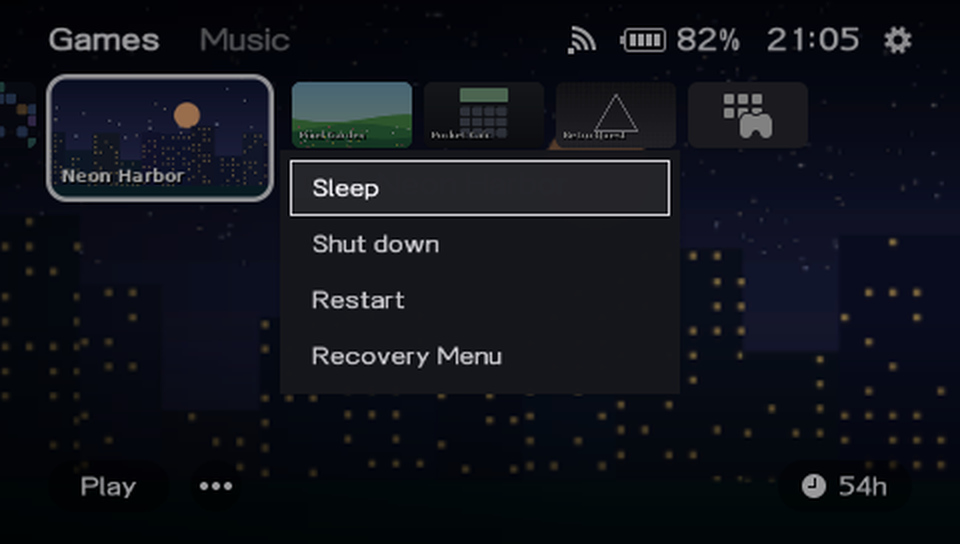
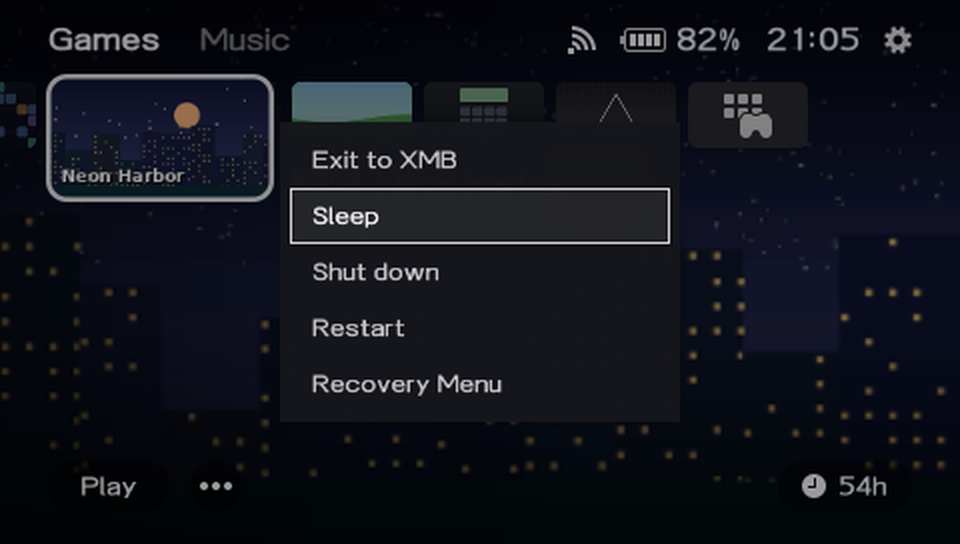
Exit to XMB in the power menu; new category Memory replaces Power and USB
The power menu (SELECT, on every screen) has a fifth choice at the top:
Exit to XMB. It still opens on Sleep, so SELECT then Confirm is Sleep as
before; Up goes to Exit to XMB (POWER_OPEN_ON in power.h).

Settings: the rows Exit to XMB, Sleep, Shut down, Restart and Recovery
Menu are gone, and so is the category Power and USB. The new category
Memory has File Manager first and USB Mode second; both still come back
to the same row of Settings.

From the File Manager and the USB screen, Exit to XMB takes the start
guard away itself (leave_for). The dead popup labels in ui.c's
menu_label() are removed (the popup is drawn by power_popup_draw()).
The README pictures of the power menu and of Settings > About are shot
again. CHANGELOG, DEVELOPER-NOTES, README and INSTALL are updated.

Claude-Session: https://claude.ai/code/session_01Ggf7fWbBwvS8yufh4LMx3Z

Changed region(s): [[0.2812, 0.2188, 0.7188, 0.75], [0.5312, 0.75, 0.5625, 0.7812]]

diff --git a/src/power.h b/src/power.h
@@ -4,10 +4,13 @@
 
 #include "settings.h"
 
-/* SELECT opens the power popup on every screen: Sleep, Shut down, Restart and Recovery menu, in the middle of the screen, the same four as in Settings -> Power and USB.
+/* SELECT opens the power popup on every screen: Exit to XMB, Sleep, Shut down, Restart and Recovery menu, in the middle of the screen (Settings has none of them).
  * Games, Library and Music keep their own state for it (ui.c: they have the options popups too) but draw it with power_popup_draw(); every other screen (Settings,
  * Information, Manage Saved Data, the File Manager, the USB screen) uses all of this, asked by main.c (power_step()), which also decides when it may open: not while the
  * screen has a popup of its own, or a job running. While it is open the screen gets no buttons. */
+
+#define POWER_CHOICES 5 /* Exit to XMB, Sleep, Shut down, Restart, Recovery menu */
+#define POWER_OPEN_ON 1 /* ... and it opens on the second, Sleep (as it always did: SELECT then ✕ is Sleep; Exit to XMB is one step up) */
 
 /* Closed, at once (before a screen is opened: a popup that was still fading out is not carried over to it). */
 void power_reset(void);
@@ -15,11 +18,11 @@ void power_reset(void);
 /* 1 = it is open (it is 0 again as soon as it is closed, while it fades out). */
 int power_is_open(void);
 
-/* Opens it on the first choice, Sleep; a direction that is held when it opens does not move the choice. */
+/* Opens it on Sleep (POWER_OPEN_ON); a direction that is held when it opens does not move the choice. */
 void power_open(const UiInput *in);
 
-/* Every frame (with no buttons when it is closed, to let it fade out). ↑ ↓ choose, ✕ takes the choice, ○ START and SELECT close it. Returns what was chosen: SA_SUSPEND, SA_SHUTDOWN,
- * SA_RESTART or SA_RECOVERY, else SA_NONE. The choice is closed at once and its sound has started. */
+/* Every frame (with no buttons when it is closed, to let it fade out). ↑ ↓ choose, ✕ takes the choice, ○ START and SELECT close it. Returns what was chosen: SA_XMB, SA_SUSPEND,
+ * SA_SHUTDOWN, SA_RESTART or SA_RECOVERY, else SA_NONE. The choice is closed at once and its sound has started. */
 int power_update(const UiInput *in, float dt);
 
 /* What a screen's loop does every frame, before its own update (main.c): SELECT opens the popup unless `can_open` is 0 (the screen has a popup of its own, or a job running);
@@ -29,7 +32,7 @@ int power_frame(UiInput *in, float dt, int can_open);
 /* The popup for the frame that is being drawn: dims the screen and draws the panel (nothing when it is closed and gone). Call it last, before osd_draw(). */
 void power_draw(void);
 
-/* Only the panel with its four choices, `sel` chosen, `a` = how much it is there (0..1, already smoothed). ui.c draws its own popup with this too, so that the look is in one place. */
+/* Only the panel with its five choices, `sel` chosen, `a` = how much it is there (0..1, already smoothed). ui.c draws its own popup with this too, so that the look is in one place. */
 void power_popup_draw(int sel, float a);
 
 #endif

diff --git a/src/ui.c b/src/ui.c
@@ -698,16 +698,17 @@ static void menu_build_view(Ui *ui, const UiInput *in)
 }
 
 /* Stänger menyn. Innehållet står kvar medan den tonas ut. */
-/* SELECT: the power popup, the same four choices in the same order as Settings > Power and USB */
+/* SELECT: the power popup, the same choices in the same order as on the other screens (power.c) */
 static void menu_build_power(Ui *ui, const UiInput *in)
 {
     ui->menu_kind = MENU_POWER;
-    ui->menu_n = 4;
-    ui->menu_item[0] = MI_SLEEP;
-    ui->menu_item[1] = MI_SHUTDOWN;
-    ui->menu_item[2] = MI_RESTART;
-    ui->menu_item[3] = MI_RECOVERY;
-    ui->menu_sel = 0;
+    ui->menu_n = POWER_CHOICES;
+    ui->menu_item[0] = MI_XMB;
+    ui->menu_item[1] = MI_SLEEP;
+    ui->menu_item[2] = MI_SHUTDOWN;
+    ui->menu_item[3] = MI_RESTART;
+    ui->menu_item[4] = MI_RECOVERY;
+    ui->menu_sel = POWER_OPEN_ON;
     ui->menu_stage = 0;
     ui->menu_dir = menu_dir_of(in);
 }
@@ -1181,10 +1182,10 @@ int ui_update(Ui *ui, const UiInput *in, float dt)
                 menu_ask_remove(ui); /* a pinned card is unpinned too: ask first */
             } else {
                 menu_close(ui);
-                if (item >= MI_SLEEP && item <= MI_RECOVERY) { /* main.c does it, like the same four in Settings */
+                if (item >= MI_XMB && item <= MI_RECOVERY) { /* main.c does it, as on the other screens */
                     sound_play(SND_SELECT);
                     sound_wait(400); /* let the sound be heard before anything closes */
-                    return item == MI_SLEEP ? UI_SLEEP : item == MI_SHUTDOWN ? UI_SHUTDOWN : item == MI_RESTART ? UI_RESTART : UI_RECOVERY;
+                    return item == MI_XMB ? UI_XMB : item == MI_SLEEP ? UI_SLEEP : item == MI_SHUTDOWN ? UI_SHUTDOWN : item == MI_RESTART ? UI_RESTART : UI_RECOVERY;
                 }
                 if (item == MI_INFO || item == MI_SAVES) {
                     sound_play(SND_SELECT);
@@ -1848,11 +1849,7 @@ static const char *menu_label(int item)
     case MI_VIEW_LOOSE:
     case MI_VIEW_BOTH:    return view_label(item - MI_VIEW_ALL);
     case MI_CANCEL:       return L(S_F_CANCEL);
-    case MI_SLEEP:        return L(S_SLEEP);
-    case MI_SHUTDOWN:     return L(S_SHUTDOWN);
-    case MI_RESTART:      return L(S_RESTART);
-    case MI_RECOVERY:     return L(S_RECOVERY);
-    }
+    } /* (the names of the power popup are in power.c: power_popup_draw() draws it) */
     return L(S_F_DELETE); /* MI_DELETE, MI_DELETE_YES */
 }
 

diff --git a/src/main.c b/src/main.c
@@ -313,7 +313,7 @@ static void read_pad(UiInput *in, u32 *old)
 
 /* The power popup of the SELECT button on the screens that are not Games, Library and Music (those have it in ui.c): SELECT opens it, unless `can_open` is 0 (the
  * screen has a popup of its own or a job running); while it is open the screen gets no buttons (`in` is cleared, also for the press that closes it). Returns what the player
- * chose (SA_SUSPEND, SA_SHUTDOWN, SA_RESTART, SA_RECOVERY), else SA_NONE. Call it every frame, before the screen's own update. */
+ * chose (SA_XMB, SA_SUSPEND, SA_SHUTDOWN, SA_RESTART, SA_RECOVERY), else SA_NONE. Call it every frame, before the screen's own update. */
 static int power_step(UiInput *in, float dt, int can_open)
 {
     int act = power_frame(in, dt, can_open);
@@ -450,7 +450,7 @@ static void delete_dir_files(const char *dir)
 static void leave_for(int action)
 {
     switch (action) {
-    case SA_XMB:      sys_exit_xmb(); break;
+    case SA_XMB:      sceIoRemove(START_MARK); sys_exit_xmb(); break; /* (the start guard goes, the launcher mode stays paused: sys_exit_xmb) */
     case SA_RESTART:  sys_restart(); break;
     case SA_SHUTDOWN: sys_shutdown(); break;
     case SA_RECOVERY: sys_recovery(); break;
@@ -695,9 +695,9 @@ int main(int argc, char *argv[])
             in_settings = 1;
             continue;
         }
-        if (action == UI_SLEEP || action == UI_SHUTDOWN || action == UI_RESTART || action == UI_RECOVERY) {
-            /* the power popup of the SELECT button: the same four actions as in Settings (only sleep comes back) */
-            run_action(action == UI_SLEEP ? SA_SUSPEND : action == UI_SHUTDOWN ? SA_SHUTDOWN : action == UI_RESTART ? SA_RESTART : SA_RECOVERY,
+        if (action == UI_XMB || action == UI_SLEEP || action == UI_SHUTDOWN || action == UI_RESTART || action == UI_RECOVERY) {
+            /* the power popup of the SELECT button, the same choices as on the other screens (only sleep comes back) */
+            run_action(action == UI_XMB ? SA_XMB : action == UI_SLEEP ? SA_SUSPEND : action == UI_SHUTDOWN ? SA_SHUTDOWN : action == UI_RESTART ? SA_RESTART : SA_RECOVERY,
                        &list, &ui);
             old = s_raw;
             continue;

diff --git a/src/ui.h b/src/ui.h
@@ -8,7 +8,7 @@
 #include "folders.h"
 
 enum { UI_NONE, UI_LAUNCH, UI_SETTINGS, UI_INFO, UI_DELETE, UI_SAVES,
-       UI_SLEEP, UI_SHUTDOWN, UI_RESTART, UI_RECOVERY /* the power popup of the SELECT button */ };
+       UI_XMB, UI_SLEEP, UI_SHUTDOWN, UI_RESTART, UI_RECOVERY /* the power popup of the SELECT button */ };
 /* Games is Home (home.h): the pinned cards, the ones opened last and, at the far right, the Library card. Music has the music.
  * Library is not a tab of the top bar: it is a screen of its own that the Library card opens (✕) and ○ closes. It shows everything,
  * and while it is open the top bar has only the word "Library" in it, in the place of Games (it cannot be selected). */
@@ -24,7 +24,7 @@ enum { MI_SAVES, MI_INFO, MI_DELETE, MI_DELETE_YES, MI_CANCEL,
        MI_PIN, MI_UNPIN,
        MI_SORT_NAME, MI_SORT_RECENT, MI_SORT_PLAYED, /* the sort popup of the Library (SORT_*, in this order) */
        MI_VIEW_ALL, MI_VIEW_FOLDERS, MI_VIEW_LOOSE, MI_VIEW_BOTH, /* the view popup of the Library (LIB_VIEW_*, in this order) */
-       MI_SLEEP, MI_SHUTDOWN, MI_RESTART, MI_RECOVERY /* the power popup: the same four as Settings > Power and USB */ };
+       MI_XMB, MI_SLEEP, MI_SHUTDOWN, MI_RESTART, MI_RECOVERY /* the power popup (power.c): Exit to XMB, Sleep, Shut down, Restart, Recovery menu */ };
 /* How the Library is sorted (Ui.lib_sort; the Sort button, kept in psp5.cfg): by name, by when a game was added (its file time), or by when it was played
  * last, the one played most recently first (a game that has not been played counts from the time it was added) */
 enum { LIB_SORT_NAME, LIB_SORT_RECENT, LIB_SORT_PLAYED, LIB_SORT_COUNT };

diff --git a/src/settings.c b/src/settings.c
@@ -60,7 +60,7 @@ typedef struct {
     int count;
 } Category;
 
-enum { CAT_PSP5, CAT_THEME, CAT_CONTROLS, CAT_DISPLAY, CAT_NETWORK, CAT_PERF, CAT_SYSTEM, CAT_PLUGINS, CAT_POWER, CAT_ABOUT, CAT_COUNT };
+enum { CAT_PSP5, CAT_THEME, CAT_CONTROLS, CAT_DISPLAY, CAT_NETWORK, CAT_PERF, CAT_SYSTEM, CAT_PLUGINS, CAT_MEMORY, CAT_ABOUT, CAT_COUNT };
 
 static Category s_cats[CAT_COUNT];
 static unsigned char s_plugin_on[MAX_PLUGINS];
@@ -576,16 +576,11 @@ static void build(int rebuild)
     if (!c->count)
         info(c, L(S_NO_PLUGINS), "");
 
-    c = &s_cats[CAT_POWER];
-    c->name = L(S_CAT_POWER);
-    action(c, L(S_USB_MODE), SA_USB);
+    /* Exit to XMB, Sleep, Shut down, Restart and Recovery menu are not here: they are the power popup of the SELECT button (power.c), on every screen */
+    c = &s_cats[CAT_MEMORY];
+    c->name = L(S_CAT_MEMORY);
     action(c, L(S_FILES), SA_FILES);
-    action(c, L(S_TO_XMB), SA_XMB);
-    /* the same four, in the same order, as the popup of the SELECT button (ui.c) */
-    action(c, L(S_SLEEP), SA_SUSPEND);
-    action(c, L(S_SHUTDOWN), SA_SHUTDOWN);
-    action(c, L(S_RESTART), SA_RESTART);
-    action(c, L(S_RECOVERY), SA_RECOVERY);
+    action(c, L(S_USB_MODE), SA_USB);
 
     c = &s_cats[CAT_ABOUT];
     c->name = L(S_CAT_ABOUT);

diff --git a/src/lang.c b/src/lang.c
@@ -86,8 +86,8 @@ static const char *const T[S_COUNT][NL] = {
                        "システム", "Systém" },
     [S_CAT_PLUGINS] = { "Plugins", "Plugins", "Plugins", "Plugins", "Plugins", "Plugin", "Plug-ins", "Plugins",
                         "Плагины", "プラグイン", "Pluginy" },
-    [S_CAT_POWER] = { "Power and USB", "Ström och USB", "Strom und USB", "Énergie et USB", "Energía y USB",
-                      "Energia e USB", "Stroom en USB", "Energia e USB", "Питание и USB", "電源とUSB", "Napájení a USB" },
+    [S_CAT_MEMORY] = { "Memory", "Minne", "Speicher", "Mémoire", "Memoria", "Memoria", "Geheugen",
+                       "Memória", "Память", "メモリー", "Paměť" },
     [S_DESC_PSP5] = {
         "ARK settings are saved in SETTINGS.TXT and apply after a restart. Hold SELECT while the PSP starts to skip them and go to the XMB.",
         "ARK-inställningar sparas i SETTINGS.TXT och gäller efter omstart. Håll SELECT när PSP:n startar för att hoppa över dem och komma till XMB.",

diff --git a/src/power.c b/src/power.c
@@ -6,10 +6,10 @@
 #include "sound.h"
 
 #define POWER_W 200.0f
-#define CHOICES 4
+#define CHOICES POWER_CHOICES
 
-static const StrId NAMES[CHOICES] = { S_SLEEP, S_SHUTDOWN, S_RESTART, S_RECOVERY };
-static const int ACTIONS[CHOICES] = { SA_SUSPEND, SA_SHUTDOWN, SA_RESTART, SA_RECOVERY };
+static const StrId NAMES[CHOICES] = { S_TO_XMB, S_SLEEP, S_SHUTDOWN, S_RESTART, S_RECOVERY };
+static const int ACTIONS[CHOICES] = { SA_XMB, SA_SUSPEND, SA_SHUTDOWN, SA_RESTART, SA_RECOVERY };
 
 static int s_open, s_sel, s_dir;
 static float s_anim; /* 0..1: how much of it there is (it fades in and out) */
@@ -43,7 +43,7 @@ int power_is_open(void)
 void power_open(const UiInput *in)
 {
     s_open = 1;
-    s_sel = 0;
+    s_sel = POWER_OPEN_ON;
     s_dir = dir_of(in);
     sound_play(SND_SELECT);
 }

diff --git a/src/lang.h b/src/lang.h
@@ -14,7 +14,7 @@ typedef enum {
     S_NO_GAMES, S_HINT_GAMES, S_HINT_APPS, S_NO_ARK, S_LOADING, S_SAVED, S_LAUNCH_FAILED,
     S_USB_MODE, S_USB_CONNECTED, S_USB_WAITING, S_USB_EJECT, S_USB_EXIT,
     S_BACK, S_YES, S_NO, S_OFF, S_AUTO, S_STANDARD, S_ALL,
-    S_CAT_PERF, S_CAT_SYSTEM, S_CAT_PLUGINS, S_CAT_POWER,
+    S_CAT_PERF, S_CAT_SYSTEM, S_CAT_PLUGINS, S_CAT_MEMORY,
     S_DESC_PSP5, S_DESC_PERF, S_DESC_PLUGINS,
     S_BOOT_PSP5, S_SOUNDS, S_LANGUAGE, S_IS_LAUNCHER, S_CLEAR_CACHE,
     S_CPU_GAME, S_CPU_XMB, S_EXTRA_MEM, S_MS_CACHE, S_ISO_CACHE,

diff --git a/docs/DEVELOPER-NOTES.md b/docs/DEVELOPER-NOTES.md
@@ -16,7 +16,7 @@ into psp5 instead of the XMB.
 
 - **Emergency exit:** hold **SELECT** while the PSP starts – ARK then skips SETTINGS.TXT and you land in the XMB.
   Hold **START** to skip all plugins.
-- **Exit to XMB** (Settings → Power and USB) turns the launcher mode off for that session.
+- **Exit to XMB** (the power menu, SELECT) turns the launcher mode off for that session.
 - **Back to arkMenu:** copy `ARK_01234/VBOOT_ARKMENU.PBP` to `VBOOT.PBP` (a copy is also in `backup/`).
 - An ARK update can overwrite `VBOOT.PBP` – then copy `dist/PSP/GAME/PSP5/EBOOT.PBP` in as `VBOOT.PBP` again.
 
@@ -59,21 +59,28 @@ The changes after 1.2.0 are noted here; the list for users is under *Unreleased*
 - **Information shows when a game was played last** (`info.c`, `lang.c` / `lang.h`; `info.c` now includes `lastplayed.h`, and `lastplayed.o` was already in the `Makefile`). `time_row()` is the old `modified_row()` made general; `last_played_row()` puts `L(S_I_LAST_PLAYED)` ("Last played") right after *Modified* in `iso_rows()` and `pbp_rows()`, and right after *Location* in `umd_rows()` (see *The disc* below). No row when `lastplayed_time(e)` is 0.
   The text is new in all 11 languages (`S_I_LAST_PLAYED`: Senast spelad, Zuletzt gespielt, Dernier lancement, Última vez jugado, Ultimo avvio, Laatst gespeeld, Jogado pela última vez, Последний запуск, 最終プレイ日時, Naposledy hráno); the strings are 209 now.
 - **The power popup on every screen** (new `power.c` / `power.h`; `main.c`, `ui.c`, `settings.c` / `settings.h`, `info.c`, `saves.c` / `saves.h`, `files.c` / `files.h`, `Makefile`; later, on request). SELECT used to open the popup only in Games, Library and Music (`MENU_POWER` in `ui.c`).
-  - *`power.c`*: `power_open(in)` / `power_update(in, dt)` (↑ ↓ and the stick choose, ✕ gives `SA_SUSPEND`, `SA_SHUTDOWN`, `SA_RESTART` or `SA_RECOVERY` and closes at once, ○ START SELECT close; a direction that is held when it opens does not move the choice; the sounds are the ones of `ui.c`),
+  - *`power.c`*: `power_open(in)` / `power_update(in, dt)` (↑ ↓ and the stick choose, ✕ gives `SA_XMB`, `SA_SUSPEND`, `SA_SHUTDOWN`, `SA_RESTART` or `SA_RECOVERY` and closes at once, ○ START SELECT close; a direction that is held when it opens does not move the choice; the sounds are the ones of `ui.c`),
     `power_draw()` (dims the screen and draws the panel, nothing when it is closed and faded), `power_reset()`, and `power_frame(in, dt, can_open)`: what a screen's loop does every frame, before its own update: SELECT opens the popup unless `can_open` is 0; while it is open, and for the press that opens it and the press that closes it, `*in` is cleared, so the screen never sees the button
-    that closed the popup (○ would go back, ✕ would do the row). `power_popup_draw(sel, a)` is the panel itself (200 x 122, in the middle, rising into place like the questions): **`ui.c` draws its own `MENU_POWER` with it too**, so there is one drawing code; its state (`menu_open`, `menu_sel`) stays in `ui.c` because it shares the menu machinery with the options popups.
+    that closed the popup (○ would go back, ✕ would do the row). `power_popup_draw(sel, a)` is the panel itself (200 x 150 with the five choices, in the middle, rising into place like the questions): **`ui.c` draws its own `MENU_POWER` with it too**, so there is one drawing code; its state (`menu_open`, `menu_sel`) stays in `ui.c` because it shares the menu machinery with the options popups.
   - *`main.c`*: `power_step(&in, dt, can_open)` = `power_frame()` and `sound_wait(400)` when something was chosen. Settings (`can_open` = `!settings_modal()`: a choice's popup), Information (always), Manage Saved Data (`!saves_modal()`: a delete running, the question, the Sort popup) and the File Manager (`!files_modal()`: a job running, the options popup or the question) ask it before their update; the USB screen too (always).
     A choice of the three that leave psp5 (`run_action()` of Settings, Information and Manage Saved Data: those screens are closed first with `info_close()` / `saves_close()`; Settings has its own rows for the same actions) works like the same rows in Settings; Sleep (`sys_suspend()`) comes back to the screen. The File Manager and the USB screen run with everything else stopped, so they return the choice (`files_mode()` / `usb_mode()` return an `SA_*`, 0 = none):
     the File Manager does Sleep on the spot, as with the PSP's own switch; USB is stopped first (`sys_usb_stop()`) and then `after_visit(action)` does Sleep or `leave_for(action)` (new, the four ways out that were the end of `run_action()`). `power_reset()` is called before each screen opens (a popup that was still fading out is not carried to the next screen).
     Each screen calls `power_draw()` right before `osd_draw()`. Not changed: the PSP's own Wi-Fi screen (`wifi_dialog`, the system's), the start-up screen and the intro, the delete / copy progress panels (a job is running: `*_modal()`).
-  - *Tests* (private): new group `power` (`power/power_test.c`: closed draws nothing; it opens on Sleep, rises into the middle (200 x 122 at 140, 75), four choices 28 px apart, the frame, the dim; ↑ ↓ and the stick stop at the ends, a held direction runs no further; ✕ gives each of the four actions and closes; ○ START SELECT close; the other buttons do nothing; the sounds; `power_frame()` with can_open 0 and 1, the buttons that are kept from the screen, the press that closes it kept too,
-    fading out, `power_reset()`; the four names in all 11 languages; at rest on whole pixels; and `power/main_check.py`, which reads `main.c` and checks that every screen asks `power_step()` the right way, that a choice is done the right way and that every screen is reset before it opens); `ui/menu_test.c` prints the signature of its own popup and `run_all.sh` requires it to be the same line as `power_test.c`'s (`SIG-POWER`: panel, dim, shadow, colours, frame, text);
+  - *Tests* (private): new group `power` (`power/power_test.c`: closed draws nothing; it opens on Sleep (the second choice), rises into the middle (200 x 150 at 140, 61), five choices 28 px apart, the frame, the dim; ↑ ↓ and the stick stop at the ends, a held direction runs no further; ✕ gives each of the five actions and closes; ○ START SELECT close; the other buttons do nothing; the sounds; `power_frame()` with can_open 0 and 1, the buttons that are kept from the screen, the press that closes it kept too,
+    fading out, `power_reset()`; the five names in all 11 languages; at rest on whole pixels; and `power/main_check.py`, which reads `main.c` and checks that every screen asks `power_step()` the right way, that a choice is done the right way and that every screen is reset before it opens); `ui/menu_test.c` prints the signature of its own popup and `run_all.sh` requires it to be the same line as `power_test.c`'s (`SIG-POWER`: panel, dim, shadow, colours, frame, text);
     `settings/settings_test.c`, `files/popup_test.c` and `saves/saves_test.c` check `settings_modal()`, `files_modal()` and `saves_modal()` (a popup, a question, a running job).
     The Settings, Information, Manage Saved Data and File Manager tests also open the popup (`power_open()`) and draw the screen, and check that the dark panel is on the screen when it is open and not when it is closed or reset (a screen that forgot `power_draw()` would show nothing); `menu_test.c` checks that the card screens' popup rises and fades in.
   - *Mutation checks* (`mutation-batches/mutbatch14a.sh` to `14e.sh`, 70 changes): all caught. In `power.c`: the choice it opens on, a held direction when it opens, the clamps at both ends, the order of the actions and of the names, ✕ not closing it, no sound, each of ○ START SELECT left out and one button too many, the sounds, a held direction running on, no fading in or out, a closed popup choosing, no dim, the width, the rise, the text and frame positions, the opacity of the others, the font size,
     `power_frame()` not clearing the buttons, ignoring `can_open`, leaking the press that opens it, not fading, `power_reset()` leaving it open or half there; in `ui.c`: the wrong choice, no fade, the old branch left in; in `main.c` (through `main_check.py`): every `*_modal()` ignored, the action of Settings, `info_close()` / `saves_close()` left out, the held button not ignored, Sleep in the File Manager, the loop not left, the order in the USB loop, the draw in the USB screen,
     `after_visit()` not used or Sleep not coming back, a wrong way out, `power_reset()` left out before each screen, the sound wait, `app_stop()` before leaving; the four `*_modal()` and the four `power_draw()` calls of the screens. Holes found and closed: the text and the frame one pixel off (only the spacing and the y of the frame were checked: the absolute positions are now), `ui.c` drawing its popup without the fade (a check that it rises and fades in), and a screen that does not draw the popup (the new check on four screens).
     Not changed: the PSP's own Wi-Fi screen and the start-up screen; nothing runs on a PSP here, and the maintainer has not tried this on one.
+- **Exit to XMB in the power popup; the category Memory replaces Power and USB** (`power.c` / `power.h`, `ui.c` / `ui.h`, `main.c`, `settings.c`, `lang.c` / `lang.h`; later, on request).
+  - *The popup* has five choices now, in this order: **Exit to XMB** (`S_TO_XMB`, `SA_XMB`, `MI_XMB`, `UI_XMB`), Sleep, Shut down, Restart, Recovery menu (`POWER_CHOICES` 5 in `power.h`). It **opens on Sleep** (`POWER_OPEN_ON` 1, used by `power_open()` and by `menu_build_power()` of `ui.c`): the choice that SELECT then ✕ has always done is still Sleep, and the one that leaves psp5 is one step up (asked to be "at the top, like in Settings"; the starting choice was not
+    said, so it is the safer one: change `POWER_OPEN_ON` to 0 for the other). `main.c`: `UI_XMB` is run as `SA_XMB` by `run_action()` (which takes the start guard away and keeps the launcher mode paused, as the old Settings row did); from the File Manager and the USB screen `leave_for(SA_XMB)` does it after the screen has stopped, and now removes the start guard itself (`sceIoRemove(START_MARK)`, harmless twice).
+  - *Settings*: the rows Exit to XMB, Sleep, Shut down, Restart and Recovery menu are gone (their `SA_*` values stay: the popup uses them). `CAT_POWER` / `S_CAT_POWER` ("Power and USB" and its ten translations) are gone; `CAT_MEMORY` / `S_CAT_MEMORY` ("Memory": Minne, Speicher, Mémoire, Memoria, Memoria, Geheugen, Memória, Память, メモリー, Paměť) is in the same place, after Plugins and before About, with two rows: **File Manager**, then **USB Mode** (they swapped places).
+    `settings_is_visit()` is unchanged (both are still visits that come back to the same row, now in Memory). The number of strings is still 209 (one went, one came). Not changed: `tools/tests/*.txt` walk to the category by key presses (it is in the same place); their shots are named `05-memory` and `07-memory` now.
+  - *Tests* (private): `settings_test.c` (no row of Settings exits, sleeps, shuts down, restarts or opens the recovery menu, by action and by name; no category is called Power and USB; Memory is the one before About, has File Manager and USB Mode in that order and ✕ gives each; the visit checks use Memory), `caps_test.c` (Memory in 11 languages, and the names of Exit to XMB),
+    `power_test.c` and `menu_test.c` (five choices, opens on Sleep, ↑ reaches Exit to XMB and stops, ✕ on each of the five, 200 x 150 at 61, the signature line), `main_check.py` (`leave_for` removes the start guard for `SA_XMB`). The README pictures of the power menu (the fifth choice) and of Settings → About (the list shows Memory above About) are shot again. 49 mutation runs on the new code (the order, names and actions of the five choices, where the popup opens, the clamps at both ends, the ranges and mappings in `ui.c` and `main.c`, `leave_for()` and `run_action()` for `SA_XMB`, the rows, order, actions and name of Memory, the visits, the new strings in four languages): all caught, after three holes were closed (`main.c` taking `UI_XMB` and mapping it to `SA_XMB`, and `run_action()` taking the start guard away for `SA_XMB`: `main_check.py` checks them now) and one that was dead code (the names of the popup in `menu_label()` of `ui.c` were never reached since the popup is drawn by `power_popup_draw()`: they are gone, and `menu_test.c` checks the five names it draws). One run changes nothing (a label case added back for `MI_XMB` that nothing can reach).
 - **The disc has a last played time too** (`lastplayed.c` / `lastplayed.h`, `info.c`; later, on request). *Time played* of the disc was there from the start and needs nothing: the helper plugin names a game on a disc (`disc0:/...`) by the `DISC_ID` of `disc0:/PSP_GAME/PARAM.SFO` (`awake_key_from_path()` kind 2, tried once a second for 10 s while the disc spins up), keeps its seconds in `played/<disc id>.txt`,
   `playtime_load()` adds them to `playtime.txt` under that name and `playtime_seconds()` looks the disc up by `entry_cover_key()` (the disc id when it has one), so the disc card shows its clock like any other game (on a PC, `units/playtime_test.c` checks "the disc: by its id" and `plugin/psp5time_test.c` a game on `disc0:` named by its `DISC_ID`; the maintainer has not reported it on a PSP). What was missing was the last time: `lastplayed_time()` and `lastplayed_note_launch()` refused the disc.
   Now `game_key()` (new, `lastplayed.c`) gives every game its key and the disc its disc id, and a disc **without** a disc ID none (`entry_cover_key()` would call it "SYSDIR", the folder of its `EBOOT.BIN`, like every disc; the plugin does not count such a disc either). So `lastplayed_note_launch()` keeps the time when psp5 starts the disc, `merge_played()` already noted the time of the plugin's file for a disc started from the XMB
@@ -81,7 +88,7 @@ The changes after 1.2.0 are noted here; the list for users is under *Unreleased*
   Home, `home_recent_rank()` and the Library do not change (the disc is always the first card, `playtime_plays()` names the disc but Home only takes games that are in the list). Tests: `units/lastplayed_test.c` (the disc by its id, from the plugin's file and from psp5, shared with an ISO, a disc with no id kept out, another disc's own time), `gameinfo/info_test.c` (the row after Location, none for another disc and for a disc with no id).
   *Mutation checks* (`mutbatch13.sh`, 9 changes): six caught (the disc refused again when reading, no check of the id, the old refusal when starting a disc, a check for another type, the row left out of `umd_rows()`, the row before *Location*); three that change nothing: forgetting to look at the answer of `game_key()` when reading, when starting a disc, and leaving out `key[0] = 0` (a disc with no id then has an empty name, which is never in the table nor noted).
   A first version had no `key[0] = 0`: the two mutations that ignored the answer left the name unset and only passed by luck (the stack was zero), so `game_key()` sets it now.
-- **Closing the File Manager or USB Mode comes back to Settings -> Power and USB** (`main.c`, `settings.c` / `settings.h`). `settings_is_visit(action)` is 1 for `SA_WIFI`, `SA_FILES` and `SA_USB`; after `run_action()` and `app_start()` the main loop stays in Settings (`in_settings` stays 1, the category and row are as they were, `old = s_raw` keeps the Back press from closing Settings)
+- **Closing the File Manager or USB Mode comes back to Settings -> Memory** (`main.c`, `settings.c` / `settings.h`). `settings_is_visit(action)` is 1 for `SA_WIFI`, `SA_FILES` and `SA_USB`; after `run_action()` and `app_start()` the main loop stays in Settings (`in_settings` stays 1, the category and row are as they were, `old = s_raw` keeps the Back press from closing Settings)
   for a visit, and goes to the main screen after every other action as before. (USB Mode was added a little later, on request: it ended on the main screen first. `usb_mode()` returns 1 like the others, so the list is scanned again, as the files may have changed.)
 - **Names** (`lang.c`): `S_SHUTDOWN` is "Shut down" in English (the other ten were already in the form of a verb phrase; `S_RECOVERY` and the others keep their capitals); `S_THEME_ART` is "Show Game art" (it was "Game art in the background") with the new texts in the other ten languages: Visa spelbilder, Spielbilder anzeigen, Afficher les images des jeux,
   Mostrar imágenes de juegos, Mostra le immagini dei giochi, Gamebeelden tonen, Mostrar imagens dos jogos, Показывать обложки игр, ゲーム画像を表示, Zobrazit obrázky her. `README.md`, `INSTALL.md` and the changelog say "Shut down" and "Show Game art".
@@ -858,7 +865,7 @@ Everything that changed compared with the original's v1.5.3 – see `CHANGELOG.m
   and *Move to Games/Apps*. ✕ chooses, ○ or □ closes, so nothing is moved by mistake. Saved in `<data>/moved.txt`, one line
   per card with `entry_cover_key` (the folder name for an EBOOT, the game ID for an ISO). The UMD has no menu. The hint
   "□ Options" is shown faintly next to the Start button.
-- **File manager** (`src/files.c`, Settings → Power and USB): runs like the USB mode, with the rest of psp5 closed
+- **File manager** (`src/files.c`, Settings → Memory): runs like the USB mode, with the rest of psp5 closed
   (`files_mode` in `main.c`), and the game list is read again afterwards. ms0: and, on the PSP Go, also ef0: (drive list at
   the top), never flash0. Folders first, sorted by name; □ marks, △ (or ✕ on a file) opens the menu: Paste here, Copy, Move,
   Rename, Delete, New folder. Copy/move/delete run in their own thread (`worker`) with progress and ○ to cancel; a cancelled
@@ -1002,8 +1009,7 @@ Laid out like a console's settings pages, and reads/writes the same files as ark
 - **Performance:** CPU in games / XMB, extra memory, memory stick cache, ISO cache
 - **System:** USB charging, WPA2, logos, hide pictures/MAC/DLC, lights, UMD, analog stick, regions and more
 - **Plugins:** switch rows in `ARK_01234/PLUGINS.TXT` and `SEPLUGINS/PLUGINS.TXT` on/off
-- **Power and USB:** USB mode, file manager, XMB, sleep, shut down, restart, recovery menu (the same four as in the SELECT
-  popup; no confirmation)
+- **Memory:** file manager, USB mode (the power rows that were in *Power and USB* are in the SELECT popup now; no confirmation)
 
 The CFW settings (`SETTINGS.TXT`) are written in exactly the same format as arkMenu and take effect after a restart.
 Unknown lines and comments are kept.

diff --git a/README.md b/README.md
@@ -34,7 +34,7 @@ wherever it can, but it doesn't copy the console in everything.
   </tr>
   <tr>
     <td width="50%"><img src="docs/screenshots/theme.png" alt="Classic theme"><br><sub><b>Themes</b> – the classic looks of PS1 to PS4 too (here PS3, with <i>Show Game art</i> turned off)</sub></td>
-    <td width="50%"><img src="docs/screenshots/power-menu.png" alt="Power menu"><br><sub><b>Power menu</b> (SELECT) – sleep, shut down, restart, recovery menu</sub></td>
+    <td width="50%"><img src="docs/screenshots/power-menu.png" alt="Power menu"><br><sub><b>Power menu</b> (SELECT) – exit to the XMB, sleep, shut down, restart, recovery menu</sub></td>
   </tr>
 </table>
 
@@ -62,8 +62,7 @@ wherever it can, but it doesn't copy the console in everything.
   - *Controls* – the PSP's own confirm button, and which buttons confirm, go back, open the options and the power menu.
   - *Display and Sound* – the PSP's own brightness, backlight timer (psp5 remembers it), volume, equalizer and AVLS.
   - *Network* – the PSP's own Wi-Fi screen. *About* – nickname, model, system software, MAC address, storage, battery.
-  - *Performance* (CPU speed, extra memory, caches), *System*, *Plugins* and *Power and USB* (USB Mode, File Manager, XMB,
-    Sleep, Shut down, Restart, Recovery Menu).
+  - *Performance* (CPU speed, extra memory, caches), *System*, *Plugins* and *Memory* (File Manager, USB Mode).
 
   A setting with several values opens a popup when you press Confirm on it.
 - **Themes.** The colours of the console covers, each with the console's scene behind your games (a beam of light, golden
@@ -71,12 +70,12 @@ wherever it can, but it doesn't copy the console in everything.
   off, so the theme is always visible.
 - **Startup.** A short intro like a console's, with a health notice, soft circles and golden dust in your theme's colours.
   It plays when the PSP starts and wakes up, not when you come back from a game. Any button skips it, and you can turn it off.
-- **Power menu** (SELECT, on every screen: Games, Library, Music, Settings, Information, Manage Saved Data, the File Manager and the USB screen). Sleep, Shut down, Restart, Recovery Menu – Confirm does it at once.
+- **Power menu** (SELECT, on every screen: Games, Library, Music, Settings, Information, Manage Saved Data, the File Manager and the USB screen). Exit to XMB, Sleep, Shut down, Restart, Recovery Menu – Confirm does it at once.
 - **Volume, battery and Wi-Fi.** Pressing the volume buttons slides a volume bar in at the top. The battery has four bars that are lit
   from the right (one for each quarter); while the PSP charges, a bolt is shown left of the battery and the bars above the level come on
   one after the other. You can also show the battery percentage (*Settings → psp5*). A Wi-Fi sign is shown while the PSP's Wi-Fi switch is
   on. At the very end of the top bar is the cog wheel.
-- **File Manager** (*Settings → Power and USB*). Browse the Memory Stick (and the internal storage on a PSP Go) and copy,
+- **File Manager** (*Settings → Memory*). Browse the Memory Stick (and the internal storage on a PSP Go) and copy,
   move, rename, delete or make folders.
 - **Sounds and languages.** Menu sounds (you can turn them off). 11 languages: psp5 follows the PSP's language; Swedish and
   Czech are picked under *Settings → psp5 → Language*.

diff --git a/INSTALL.md b/INSTALL.md
@@ -47,7 +47,7 @@ Then *Custom Launcher* in the XMB opens psp5, and your PSP can start straight in
 3. Copy `VBOOT.PBP` from the zip's `ARK_LAUNCHER` folder into `ARK_01234`.
 4. In psp5, open the settings (↑ to the top bar, → to the cog wheel, then Confirm) → *psp5* → turn on *Boot into psp5*, then restart the PSP.
 
-To get to the XMB from there: settings → *Power and USB* → *Exit to XMB*.
+To get to the XMB from there: press SELECT (the power menu, on every screen) and choose *Exit to XMB*.
 
 ## Time played
 
@@ -82,7 +82,7 @@ Every screen uses the same few buttons for the same things:
 | ✕ | **Confirm**: start the game, open, choose, switch on or off (in Music: play / pause) |
 | ○ | **Back**: one step back, close a popup or a screen (it closes the Library) |
 | START | **Options**: of the selected game, card or file · on the Library card: pin / unpin · START again closes the options |
-| SELECT | **Power menu** on every screen: Sleep, Shut down, Restart, Recovery Menu (Confirm does it at once, Back or SELECT closes). It does not open while a popup is open or a copy, move or delete is running. |
+| SELECT | **Power menu** on every screen: Exit to XMB, Sleep, Shut down, Restart, Recovery Menu (Confirm does it at once, Back or SELECT closes). It does not open while a popup is open or a copy, move or delete is running. |
 | L / R | **Switch tabs**: Games and Music (not in the Library: ○ closes it) · in a long list a page up / down |
 | □ △ | Extras on a few screens only: mark / select all in a list (*Manage Saved Data*, the File Manager), □ pauses the music |
 | HOME | Back to the XMB (not as custom launcher)|
@@ -102,7 +102,7 @@ Where to go from there:
 
 ## File Manager
 
-*Settings → Power and USB → File Manager* lets you manage files right on the PSP. Confirm opens a folder, □ marks
+*Settings → Memory → File Manager* lets you manage files right on the PSP. Confirm opens a folder, □ marks
 files, Options (START) shows what you can do (copy, move, paste, rename, delete, new folder) and Back goes back (the first Back
 clears the marks, and at the top it cancels a waiting copy or move before it leaves).
 
@@ -117,7 +117,7 @@ It needs Python 3 with two packages: `py -m pip install --user pillow lz4` (on W
    PNG, JPG, WEBP and BMP work. The ID of a game in `ISO` is the one on its disc (as in its `PARAM.SFO`); for homebrew, PSN and PS1 games
    in `PSP/GAME` it is the **name of its folder**. The card shows the middle of your picture, cut to about 16:9 (the card is 144 × 80),
    and the background is 320 × 182, so pictures of that shape fit best.
-2. **Connect the PSP** (*Settings → Power and USB → USB Mode*, or the Memory Stick in your computer). It shows up as a drive, for example `E:`.
+2. **Connect the PSP** (*Settings → Memory → USB Mode*, or the Memory Stick in your computer). It shows up as a drive, for example `E:`.
 3. **Run the tool** with that drive: `py tools\covers.py E:\` (on Linux or macOS: `python3 tools/covers.py /path/to/the/stick`). It lists every game with its ID
    and what it wrote, and puts the finished pictures in `PSP5/covers` on the Memory Stick.
 4. **Start psp5 again.** A cover in `PSP5/covers` always wins over the game's own picture and over the image cache, and *Clear image cache* never removes it.

diff --git a/CHANGELOG.md b/CHANGELOG.md
@@ -16,8 +16,10 @@ Newest first. Changes that are not in a release yet are under *Unreleased*.
 
 ### Power menu
 
+- **New choice: Exit to XMB**, at the top of the power menu (SELECT). The power menu opens on *Sleep* as before, so SELECT and then Confirm is still Sleep; ↑ goes to *Exit to XMB*. The rows *Exit to XMB*, *Sleep*,
+  *Shut down*, *Restart* and *Recovery Menu* are **gone from Settings**: the power menu has them.
 - **SELECT opens the power menu on every screen**, not only in Games, Library and Music: also in *Settings*, *Information*, *Manage Saved Data*, the *File Manager* and the *USB* screen. Sleep keeps you where you are;
-  Shut down, Restart and Recovery menu close the screen first (from the USB screen USB is stopped first). It does not open while the screen has a popup of its own open or a job running (a copy, a move or a
+  Exit to XMB, Shut down, Restart and Recovery menu close the screen first (from the USB screen USB is stopped first). It does not open while the screen has a popup of its own open or a job running (a copy, a move or a
   delete), so nothing is left half done. The PSP's own Wi-Fi screen and the start-up screen are not psp5's and keep their own buttons.
 
 ### Information
@@ -27,7 +29,8 @@ Newest first. Changes that are not in a release yet are under *Unreleased*.
 
 ### Settings
 
-- **Closing the File Manager or USB Mode brings you back to Settings → Power and USB**, on the row you came from (before, to the main screen). The Wi-Fi screen already did this.
+- **New category: Memory**, with the *File Manager* and *USB Mode* (in that order). *Power and USB* is gone (its power rows are in the power menu, see above).
+- **Closing the File Manager or USB Mode brings you back to Settings → Memory**, on the row you came from (before, to the main screen). The Wi-Fi screen already did this.
 - **The switch is called *Show Game art*** now (it was *Game art in the background*), in all 11 languages.
 - **Three themes are gone:** *Starlight Blue*, *Chroma Indigo* and *Chroma Pearl* looked almost like *Cobalt Blue*, *Galactic Purple* and *Sterling Silver*. If you had chosen one of
   them, psp5 starts with the PS5 theme instead.
